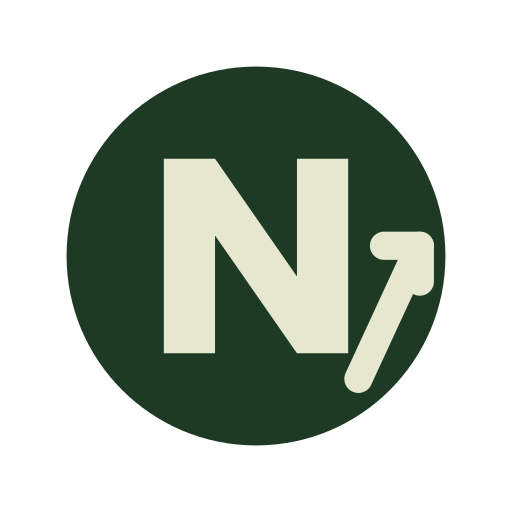
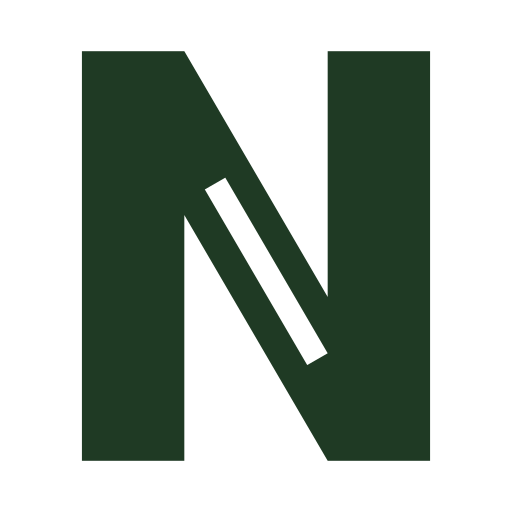
feat(brand): unify Nexlane mark across surfaces

diff --git a/src/components/BrandMark.tsx b/src/components/BrandMark.tsx
@@ -1,8 +1,12 @@
 /**
- * Inline Forest & Sage mark from the approved homepage artifact.
- * SVG only, palette tokens only.
- * Decorative by default (the surrounding link carries the label).
+ * Forest & Sage mark: a bold, custom N with an inset lane cut through its
+ * diagonal. The cut is negative space inside one filled silhouette, not a
+ * separate slash or detached glyph. The favicon uses the same N silhouette
+ * without the fine cut so it stays clear at 16 px.
  */
+export const N_PATH = "M32 20H72L128 116V20H168V180H128L72 84V180H32Z M80 74L88 69.4L128 138L120 142.6Z";
+export const MARK_VIEWBOX = "0 0 200 200";
+
 export default function BrandMark({
   size = 32,
   ariaLabel,
@@ -14,7 +18,7 @@ export default function BrandMark({
 }) {
   return (
     <svg
-      viewBox="0 0 200 200"
+      viewBox={MARK_VIEWBOX}
       width={size}
       height={size}
       className={`shrink-0 ${className}`}
@@ -23,8 +27,7 @@ export default function BrandMark({
       aria-label={ariaLabel}
       focusable="false"
     >
-      <circle cx="100" cy="100" r="74" fill="var(--brand)" />
-      <path d="M64 138V62H84L116 108V62H136V138H116L84 92V138Z" fill="var(--bg)" />
+      <path d={N_PATH} fill="var(--brand)" fillRule="evenodd" />
     </svg>
   );
 }

diff --git a/src/components/home/ServiceHub.tsx b/src/components/home/ServiceHub.tsx
@@ -1,4 +1,5 @@
 import { CampaignScene, GameScene, SeoScene, WebScene } from "@/components/motion/scenes";
+import { MARK_VIEWBOX, N_PATH } from "@/components/BrandMark";
 
 /**
  * Home hero visual: one central N with four labeled service scenes around
@@ -15,10 +16,10 @@ export default function ServiceHub() {
       aria-label="Four Nexlane service scenes around the Nexlane N"
     >
       <div className="hub-core">
-        <svg className="hub-mark" viewBox="0 0 200 200" role="img" aria-label="Nexlane N">
+        <svg className="hub-mark" viewBox={MARK_VIEWBOX} role="img" aria-label="Nexlane N">
+          {/* The outer signal ring stays decorative; the N shares BrandMark geometry. */}
           <circle className="hub-ring-line" cx="100" cy="100" r="94" />
-          <circle className="ff" cx="100" cy="100" r="74" />
-          <path className="fl" d="M64 138V62H84L116 108V62H136V138H116L84 92V138Z" />
+          <path d={N_PATH} fill="var(--brand)" fillRule="evenodd" />
         </svg>
       </div>
 

diff --git a/src/lib/seo.ts b/src/lib/seo.ts
@@ -65,7 +65,9 @@ export function organizationSchema() {
     name: site.name,
     alternateName: site.alternateName,
     url: site.SITE_URL,
-    logo: absoluteUrl("/brand/nexlane-mark.png"),
+    // The icon route carries the same N silhouette in its favicon-safe form.
+    // Legacy public/brand/ lockups are pre-rebrand and must not be referenced.
+    logo: absoluteUrl("/icon.png"),
     description: site.description,
     foundingDate: "2026",
     slogan: site.tagline,

diff --git a/src/components/ArrowMotif.tsx b/src/components/ArrowMotif.tsx
@@ -28,8 +28,3 @@ export function ArrowMotif({ className = "" }: { className?: string }) {
     </svg>
   );
 }
-
-/** Glowing "N" navbar mark placeholder until the real logo files land. */
-export function LogoMark({ className = "h-8 w-8" }: { className?: string }) {
-  return <ArrowMotif className={className} />;
-}

diff --git a/src/app/opengraph-image.tsx b/src/app/opengraph-image.tsx
@@ -43,8 +43,8 @@ export default function OpengraphImage() {
         />
         <img
           src={mark}
-          width={260}
-          height={186}
+          width={220}
+          height={220}
           alt=""
           style={{ marginBottom: 28, borderRadius: 20 }}
         />

diff --git a/AGENTS.md b/AGENTS.md
@@ -29,7 +29,7 @@ Light, natural palette replacing the earlier dark navy theme.
 - Gradient: `#1F3A24 → #3F5E36` only in `.text-gradient` / dividers. Text contrast at least 4.5:1. (The reference HTML defines only the four core colors: `#E5E8CE`, `#1F3A24`, `#16220F`, `#D6DAB4` — everything else is derived from them and must pass 4.5:1 as text.)
 - Mobile first (360px minimum). Respect `prefers-reduced-motion`.
 
-**Logo:** inline SVG `src/components/BrandMark.tsx` matching the approved artifact: a forest circle with a pale N. Keep `NEXLANE` as HTML text in the header. No PNG lockup/mark in the header.
+**Logo:** inline SVG `src/components/BrandMark.tsx` — a bold filled geometric N silhouette with a short, inset negative-space lane through its diagonal. The lane is a cut within the N (never a separate slash or detached mark). No circle/container, dot, arrow or chart motif. Primary mark uses `var(--brand)` on transparent. The 16px favicon uses the same bold N silhouette without the fine lane cut on an opaque `var(--bg)` canvas for contrast in dark browser chrome. Keep `NEXLANE` as HTML text in the header. No PNG lockup/mark in the header.
 
 ## 4. Site structure (decided by the owner)
 
@@ -160,7 +160,7 @@ Goals: (1) rank for the brand names "Nexlane" and "Nexlane Digital"; (2) rank lo
 6. **Brand entity.** `WebSite` schema: `name` "Nexlane Digital", `alternateName` "Nexlane". `Organization` (type `ProfessionalService`): same names, `url`, `logo`, `description`, `areaServed` (Kaithal, Haryana, India), `sameAs` from config social links (only non-empty ones), `foundingDate` 2026. No address, no phone, no email. Keep the name, description and facts identical on every page and in `llms.txt`.
 7. **Schema per page.** `BreadcrumbList` only where a visible breadcrumb exists and matching it. `Service` on service pages (provider = the Organization, `areaServed` Kaithal/Haryana). `Person` (name, jobTitle, `worksFor`, `url` = portfolioUrl if set) for the founders on `/about/founders`. `FAQPage` only for FAQs visible on that page (Google shows FAQ rich results only for a few site types now, so this is low value; keep it only where the FAQ is on the page anyway). All JSON-LD goes through one component that escapes `<`. Nothing else uses `dangerouslySetInnerHTML`.
 8. **Images.** Serve modern formats: set `images.formats` to `['image/avif','image/webp']` in `next.config.ts` and use `next/image` everywhere with real `width`/`height` or `sizes`, descriptive `alt` (decorative images get `alt=""`), `priority` only for the LCP image. Convert any PNG or JPG in `public/` that is shown on the site to `.webp` (use `sharp`, already installed with Next; if it is missing, say so, do not install from outside the registry) and keep each under 150 KB where possible. Team photos use `/team/<slug>.webp`.
-9. **Files.** `src/app/robots.ts`, `src/app/sitemap.ts` (all public routes, no `/thank-you`, blog posts when they exist), `public/llms.txt` built only from config facts (who we are, honest note that we are new and have no client work yet, services, location, page list with one-line descriptions; no phone, no address). Note: no AI provider has confirmed that it uses `llms.txt`; it is cheap, so we ship it, but we do not claim any effect. `/thank-you` is `noindex`. Generate `opengraph-image` with `next/og` (text and brand gradient, no logo file).
+9. **Files.** `src/app/robots.ts`, `src/app/sitemap.ts` (all public routes, no `/thank-you`, blog posts when they exist), `public/llms.txt` built only from config facts (who we are, honest note that we are new and have no client work yet, services, location, page list with one-line descriptions; no phone, no address). Note: no AI provider has confirmed that it uses `llms.txt`; it is cheap, so we ship it, but we do not claim any effect. `/thank-you` is `noindex`. Generate `opengraph-image` with `next/og` using the same Forest & Sage mark, rasterized from the canonical geometry for `ImageResponse` compatibility.
 10. **Metadata.** Every page: unique `title` (60 characters or fewer) and `description` (160 or fewer) from `docs/seo-content.md`, a canonical URL, Open Graph and Twitter tags, `html lang="en-IN"`, one H1 that contains the page's main keyword naturally, logical H2/H3. Home and service pages get a short answer-first intro (the first 2 sentences say who we are, where, and what we do) because AI search quotes those.
 11. **Local and AEO content.** Each service page has a section "For businesses in and around Kaithal" (real, written for people, mentions Kaithal and Haryana once or twice naturally) and a visible FAQ, answer first, 1 to 3 sentences, from `docs/seo-content.md`. Internal links between related pages with descriptive anchor text (for example SEO page to Free Audit, Digital Marketing to SEO). No prices, no guarantees, no invented statistics.
     - **Owner update 2026-11-08:** targeting is NOT Kaithal-only. Main target = bigger Haryana cities (Karnal, Kurukshetra, Rohtak, Ambala, Panipat, Hisar…) and customers from anywhere including foreign clients (remote work). Weave these in naturally where the audience is described; keep Kaithal as the home base; never claim clients we do not have; no keyword stuffing.
@@ -182,7 +182,7 @@ This section applies to the Forest & Sage palette redesign (branch `feat/forest-
 
 1. **Palette & tokens:** Section 3 is the single source of truth for the Forest & Sage light theme (`--bg #E5E8CE`, `--brand #1F3A24`, `--accent #1F3A24`, `--text #16220F`, etc.). All components must use these CSS variables; no hardcoded dark/blue/white values remain.
 
-2. **Logo asset:** inline SVG `src/components/BrandMark.tsx` matching the approved artifact (forest circle + pale N). Navbar and Footer keep the wordmark as HTML text. PNG files are not used in the header.
+2. **Logo asset:** inline SVG `src/components/BrandMark.tsx` — a bold filled geometric N with an inset negative-space lane in its diagonal; no circle/container, detached slash, dot, arrow or chart motif. Primary mark transparent; favicon is an opaque `var(--bg)` canvas with the same simplified N silhouette. Navbar and Footer keep the wordmark as HTML text. PNG files are not used in the header.
 
 3. **Hero (Home):** two-column editorial layout — left: copy (eyebrow, large Anton H1, short paragraph, pill CTAs, small service links); right: the honest facts band (ink ground, canvas text). The `ServiceHub` component (center N mark + four animated scene frames: Website build, SEO scan, Campaign pulse, Game hop) sits full-width below the copy inside `#hero`, so the N and scene frames never overlap the text. No WebGL, no Three.js. Animations are pure CSS/SVG driven by `.scene-stage` classes in `globals.css`, respecting `prefers-reduced-motion` and quality tiers (`data-quality` on `<html>`).
 

diff --git a/design.md b/design.md
@@ -8,15 +8,15 @@ Living document. Every animation, motion, or visual polish we add to the site is
 - Mobile first (360px minimum). No motion that causes layout shift or jank on low-end phones.
 - Performance: no heavy JS animation libraries unless needed. Prefer CSS + `requestAnimationFrame`. Keep Lighthouse performance ≥ 90.
 - Animations enhance, never block content. Core content must be readable with JS off.
-- Brand tokens only: gradient `#0572F5 → #1ED3F2 → #7CF4EF`, bg `#000D1D`, accent `#1ED3F2`. Contrast ≥ 4.5:1.
+- Brand tokens only: Forest & Sage palette from `AGENTS.md` §3. Contrast ≥ 4.5:1.
 - External motion libs: none installed yet. Add only when a real need exists (no "for later" installs).
 
 ## Visual direction
 
-- Preserve Nexlane's navy canvas and blue/cyan identity. Use brand glows sparingly; avoid generic purple gradients, stock dashboard cards, and ornamental all-caps labels.
+- Preserve the approved Forest & Sage editorial identity. Use brand glows sparingly; avoid generic purple gradients, stock dashboard cards, and ornamental all-caps labels.
 - The site represents a small, direct local-business studio. Keep claims honest; do not invent clients, metrics, or awards.
 - Preserve responsive layouts, clear hierarchy, and accessible focus states. Motion should not delay reading or navigation.
-- Use the supplied `D:\Downloads\nexlane-logo-clean.png`; the full artwork lives at `public/nexlane-logo.png`, with a cropped mark at `public/nexlane-mark.png` for compact navbar/footer lockups and the full logo featured in the homepage hero.
+- Use the shared inline SVG `BrandMark` for the current filled N mark. Obsolete PNG logo assets were removed; keep the wordmark as HTML text.
 
 ## Motion decisions
 
